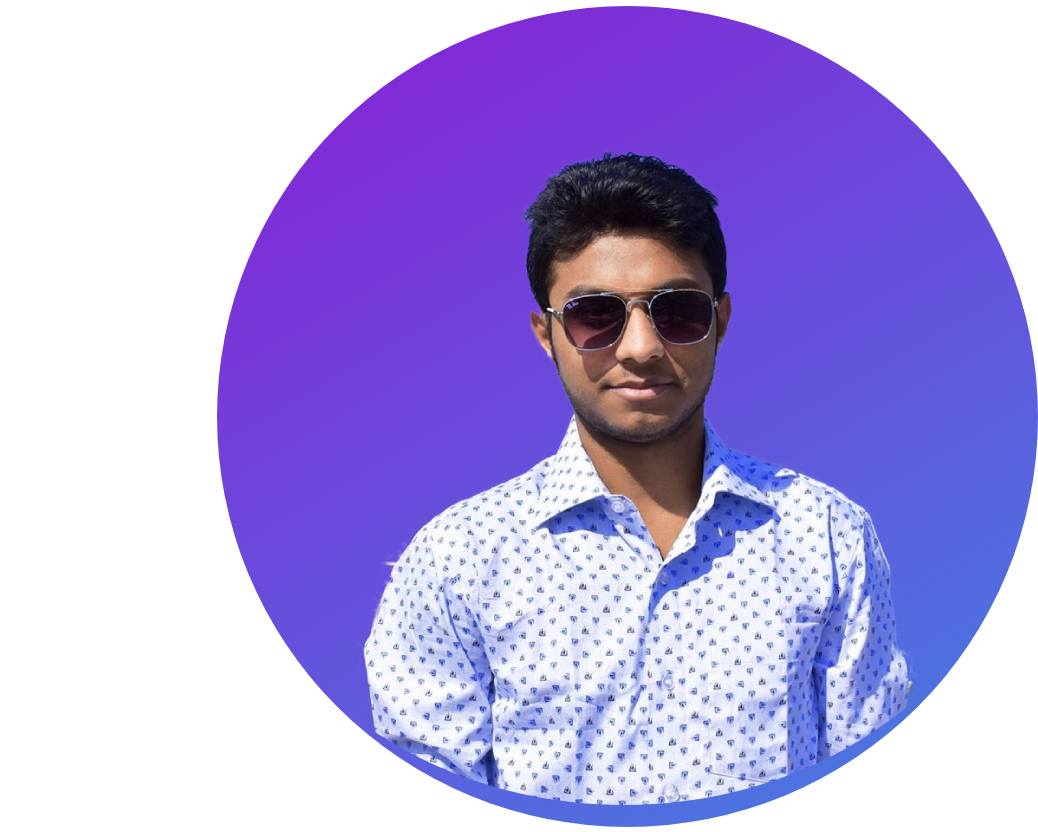
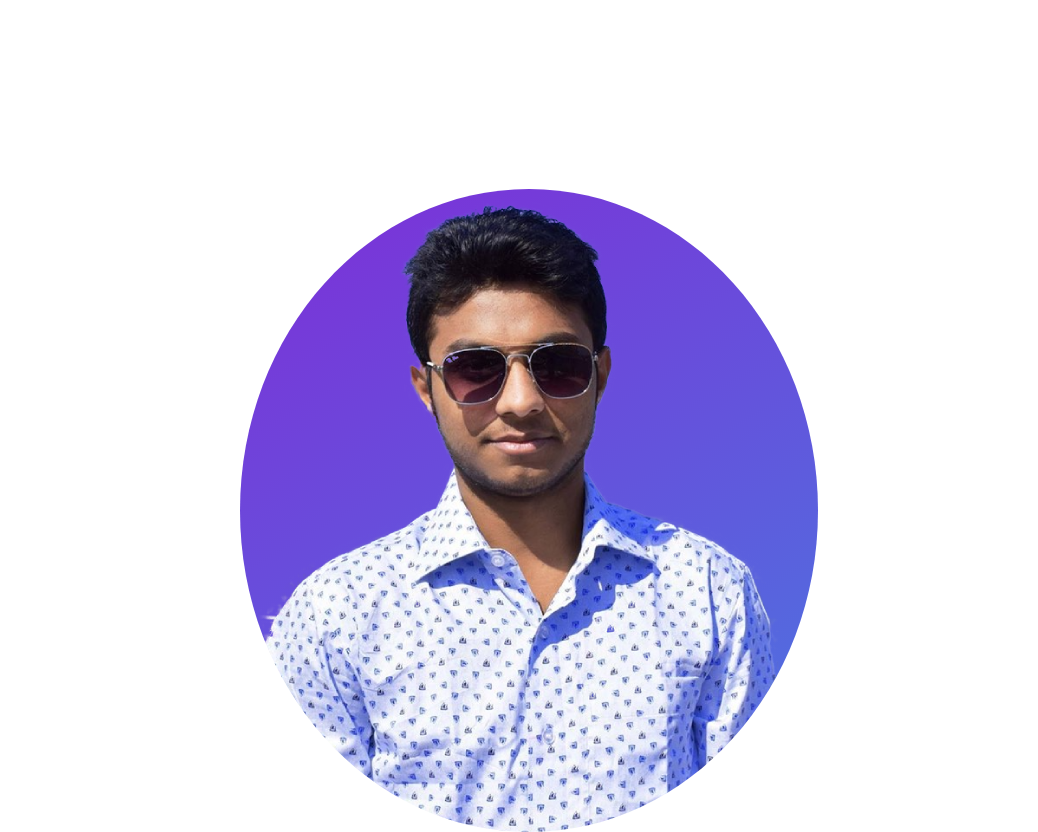
add new file

diff --git a/day4(project)/module4.html b/day4(project)/module4.html
@@ -10,7 +10,6 @@
 </head>
 <body>
     <section class="top-banner">
-
         <div class="half-width">
             <h1>Welcome To </h1>
             <h1> <span class="name"> MD Sofie Uddin Sohel</span></h1>
@@ -18,10 +17,12 @@
             <p>Lorem ipsum dolor sit amet consectetur adipisicing elit. Fuga alias esse nam nesciunt ea eligendi officiis
                 voluptatibus, voluptate sit exercitationem vel suscipit inventore quam architecto tenetur laborum sequi non labore?</p>
                 <a class="link-button" target="_blank" href="https://www.linkedin.com/in/engrsofie/">linkedin</a>
-        </div class="half-width">
-        <div><img src="images/11.png"></div>    
+        </div>
+        <div class="half-width">
+            <img src="images/11.png">
+        </div>    
     </section>
-   
+    
     <section class="Dream-area" >
         <div class="half-width">
             <img src="images/12.png">
@@ -40,14 +41,14 @@
 <div id="full-stack" class="half-width single-experiences">
 <h2>Full Stack Web Dev</h2>
 <h3 class="name-profile">2021-Present = Pro level web Dev</h3>
-<p>Lorem ipsum dolor sit amet consectetur adipisicing elit. Aspernatur aperiam quae necessitatibus dolores consequuntur sunt illum libero facere voluptatum temporibus repellat error quas assumenda modi quidem obcaecati sed odio magnam accusantium illo voluptatem aliquam ea, adipisci ab! Dolorum harum inventore neque, minus deleniti quam vel minima officia impedit magnam incidunt repellat quia perferendis. Doloribus in delectus aliquid nostrum maiores, sed eaque sunt. Explicabo eius odio, dolorem neque, unde beatae quae minima ipsam laborum ratione inventore molestias maiores doloribus laudantium recusandae iure numquam repellat rerum deserunt, id veniam iusto sapiente. Animi magnam tenetur aspernatur fugiat accusamus omnis inventore in ad saepe esse nemo reiciendis, illo laudantium sit recusandae, aperiam enim incidunt. Cupiditate dolor qui rem, labore voluptatibus quam, animi laboriosam amet magni a inventore soluta, vitae modi tenetur atque nulla quisquam odit et eos! Numquam earum sunt optio laboriosam labore eum, adipisci voluptatibus, ratione autem nobis vitae nulla consequatur sit, placeat exercitationem deserunt. Nam quasi ducimus nesciunt obcaecati quidem. Quis, ea. Cumque laudantium modi mollitia consectetur voluptates reiciendis libero, deserunt obcaecati atque itaque vero esse totam similique, ducimus at temporibus eveniet? Labore unde quia eum velit eos ullam doloribus modi, cumque voluptates officiis asperiores quos? Obcaecati sapiente similique illum eos temporibus.
+<p>Lorem ipsum dolor sit amet consectetur adipisicing elit. Aspernatur aperiam quae necessitatibus dolores consequuntur sunt illum libero facere voluptatum temporibus repellat error quas assumenda modi quidem obcaecati sed odio magnam accusantium illo voluptatem aliquam ea, adipisci ab!
 </p>
 </div>
 
 <div id="baby-stack" class="half-width single-experiences">
 <h2>  Baby Web Dev</h2>
 <h3 class="name-profile">2020-Present = 2021</h3>
-<p>Lorem, ipsum dolor sit amet consectetur adipisicing elit. Corporis exercitationem animi eos quis? Illum, cupiditate quae placeat aut explicabo modi! Esse autem blanditiis unde quidem! Vitae eius cupiditate similique non et earum provident perferendis velit recusandae quam illum necessitatibus vel iusto iure repudiandae sit molestias eligendi debitis libero itaque fugiat, quo nam possimus eaque? Fugiat numquam dolorum beatae in, iusto quo fugit iste laborum suscipit, ea, eveniet quibusdam tempore officiis. Aut necessitatibus fuga odit aspernatur sit in quam veniam? Eligendi optio omnis ipsam atque mollitia dolorem commodi quasi voluptatum praesentium excepturi sint quisquam eum maiores explicabo possimus ea quia saepe, tempore consequuntur unde nobis sed! At inventore culpa a quam itaque ab excepturi perferendis quae, dignissimos impedit exercitationem sint. Similique velit dolorem ipsa ad aut obcaecati quasi, ducimus, quos eum dolorum vitae est. Reprehenderit est quaerat consequuntur vel labore? Aliquam harum ducimus, ea delectus itaque ipsa vitae quas? Nobis et libero, nulla repudiandae voluptatem quasi officiis iusto sed sunt ullam ad similique eos error saepe eius minima ab aut voluptatum. Voluptate in fuga rem labore minima perferendis et repudiandae facilis aliquam? Fugiat natus ratione odio ullam, consequatur, deserunt animi assumenda voluptate dolor dicta eaque, neque eos modi cum earum non?
+<p>Lorem, ipsum dolor sit amet consectetur adipisicing elit. Corporis exercitationem animi eos quis? Illum, cupiditate quae placeat aut explicabo modi! Esse autem blanditiis unde quidem! Vitae eius cupiditate similique non et earum provident perferendis velit recusandae quam illum necessitatibus vel iusto iure repudiandae sit molestias eligendi debitis libero itaque fugiat, quo nam possimus eaque?
 </p>
 </div>
     </section>

diff --git a/day4(project)/style.css b/day4(project)/style.css
@@ -6,13 +6,14 @@ h1{
     color: orange;
 }
 .half-width{
-   width: 40%;
-   float:left;
-   margin-left: 0.5%;
-   padding-left: 0.5%;
+    width: 40%;
+    float:left;
+   margin-left: 2%;
+   padding-left: 2%;
 }
 .half-width img{
-width: 100%;
+    width: 100%;
+    
 }
 .top-banner{
     background-image: url("images/top-banner.png");
@@ -51,9 +52,9 @@ p{
     color: orange;
 }
 .single-experiences{
-    box-shadow: 10px 10px 40px;
+    box-shadow: 5px 5px 5px;
     border-radius: 10px;
-    height: 100%;  
+    height: 50%;  
     background-color: white;
 }
 .experiences-area{
